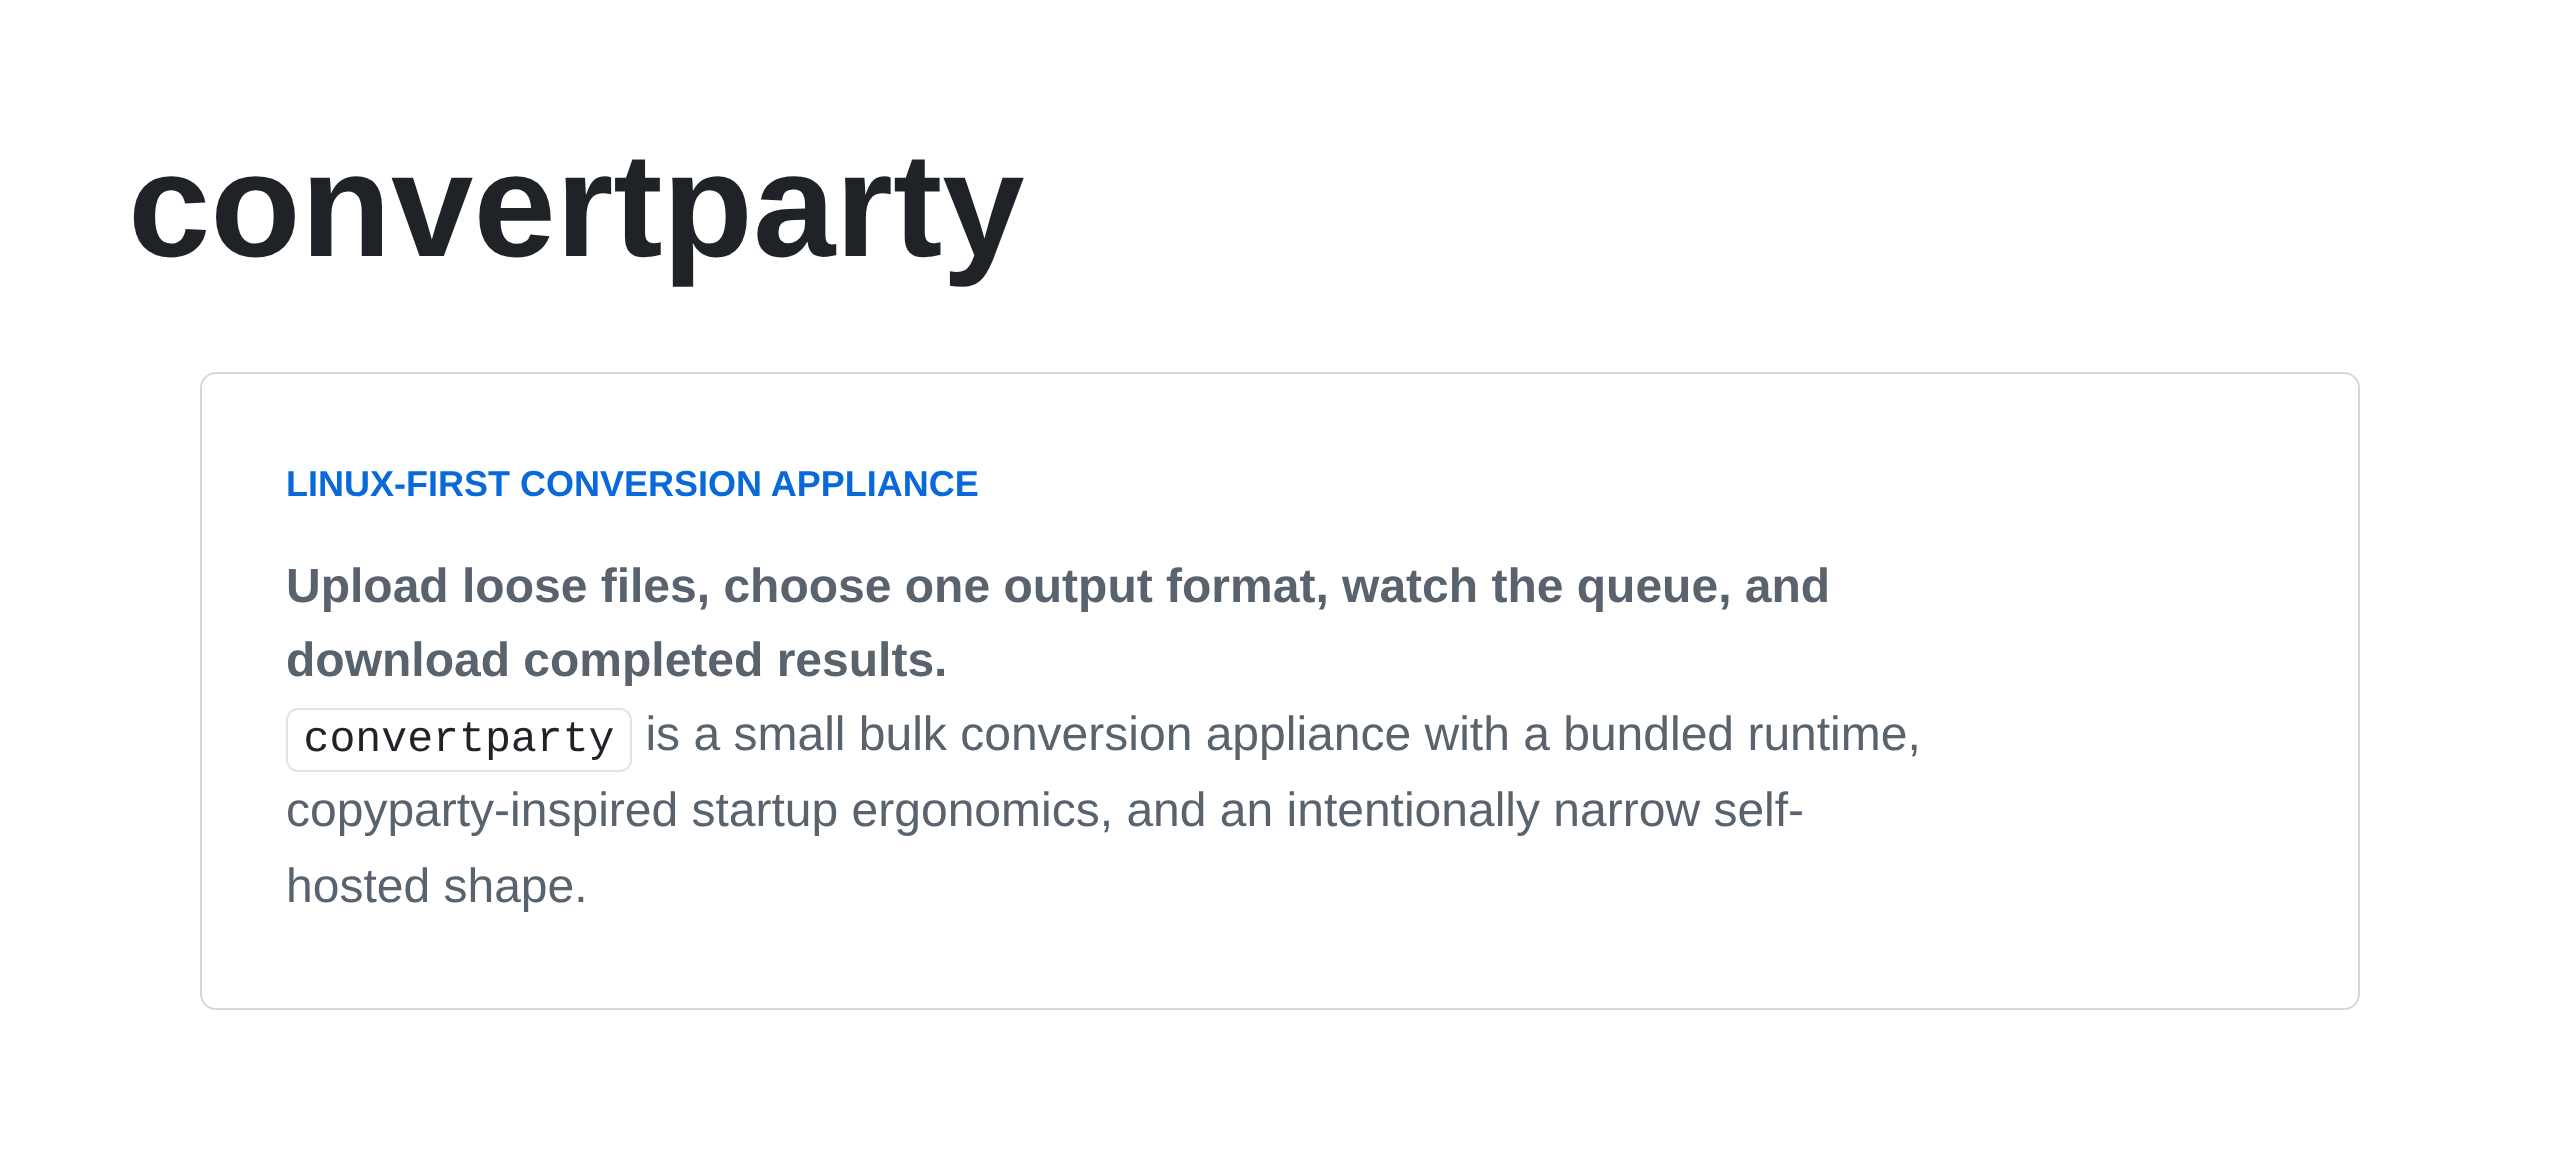
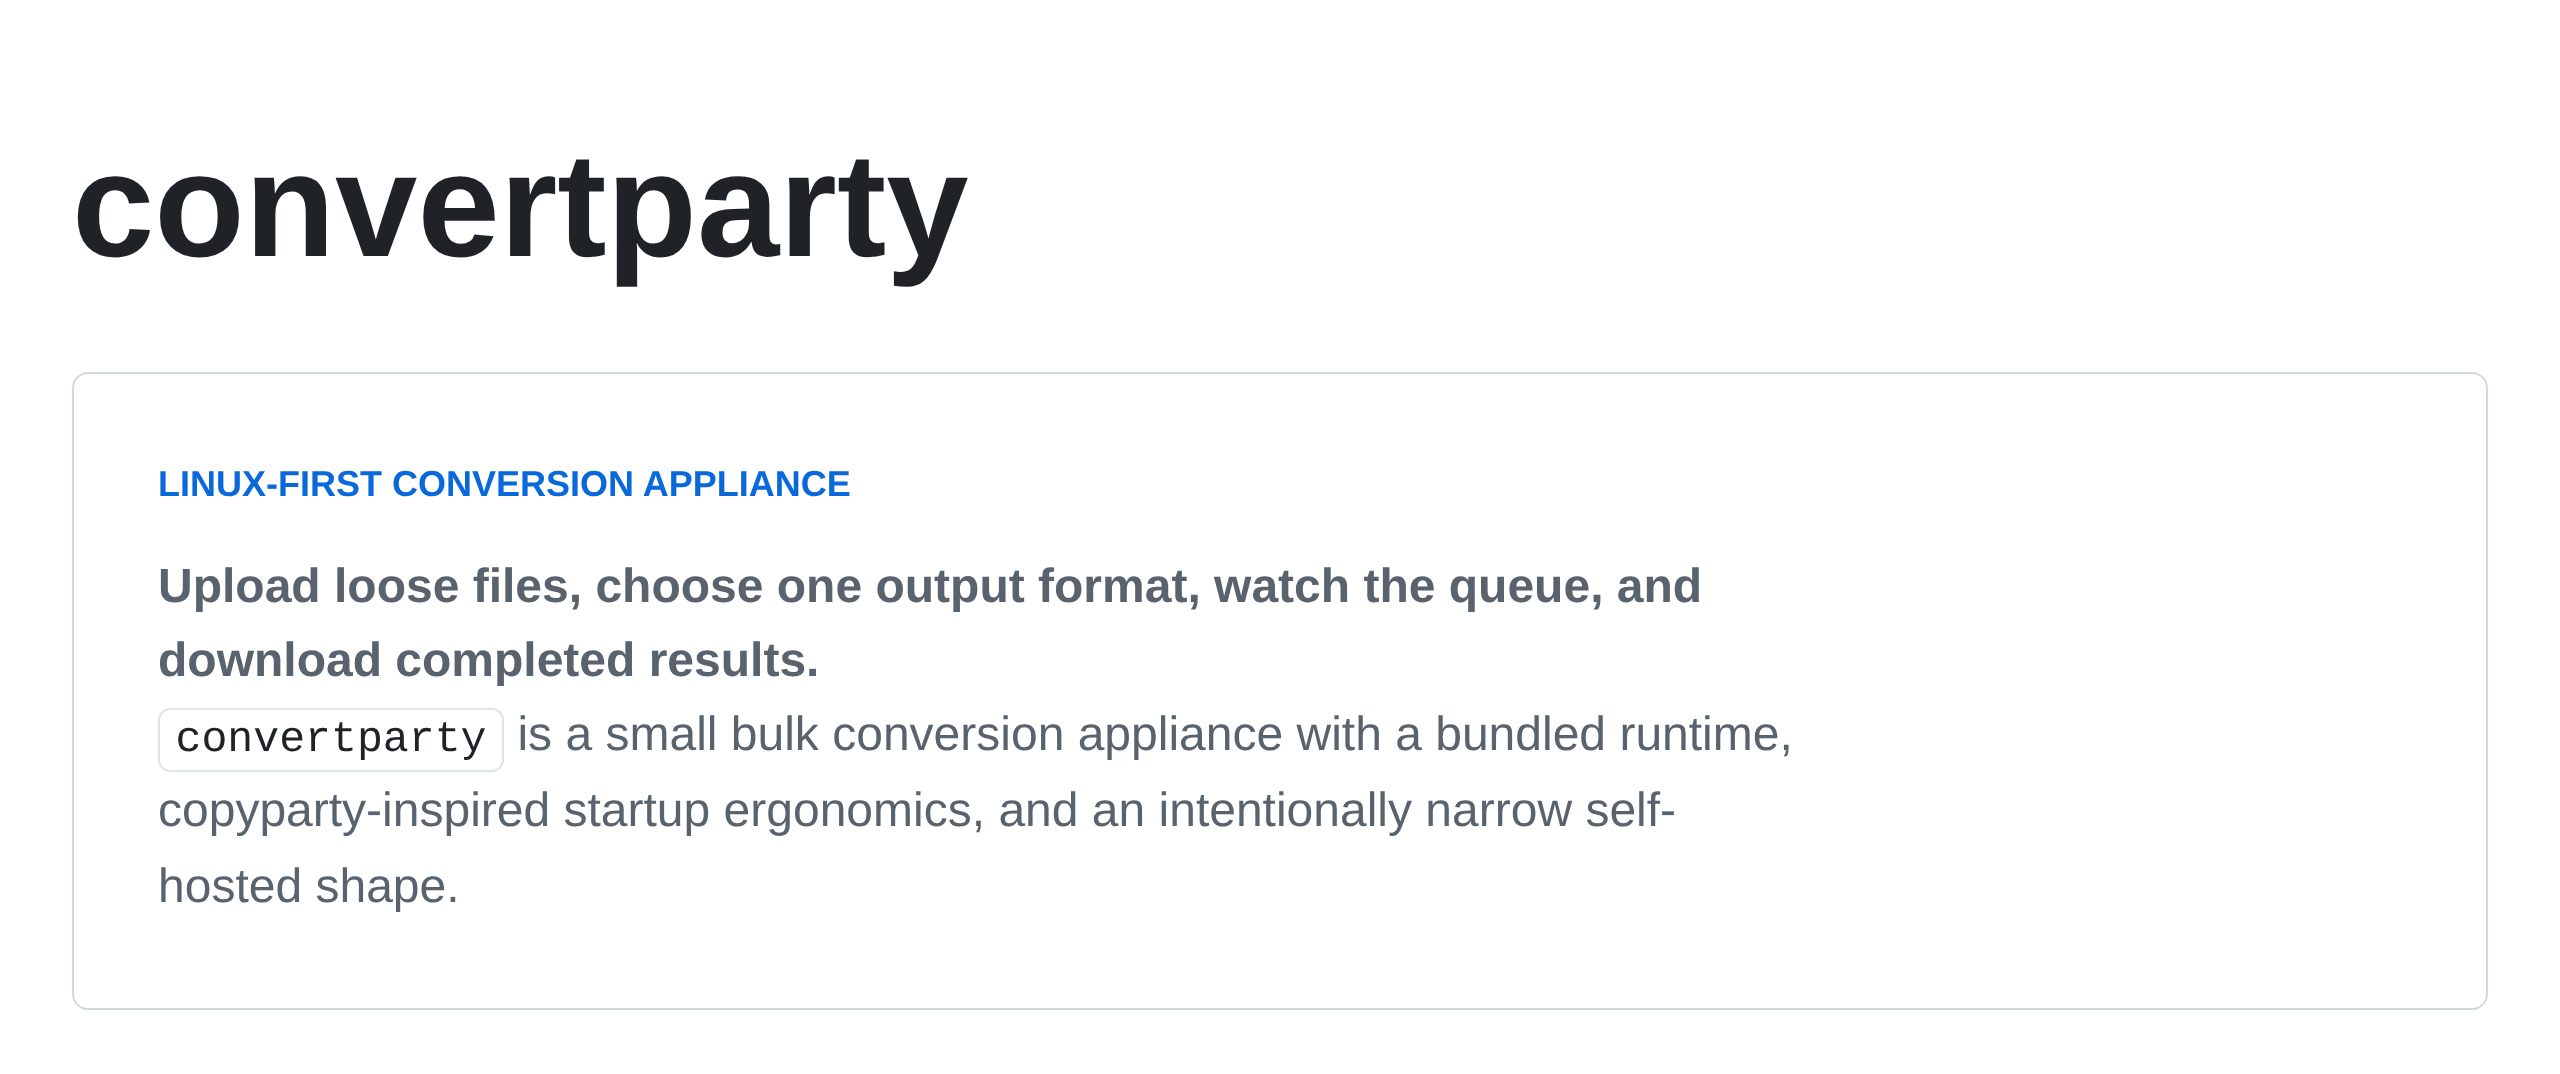
Tighten README split alignment

diff --git a/scripts/render-readme.ts b/scripts/render-readme.ts
@@ -234,21 +234,21 @@ body {
 
 .readme-canvas {
   width: 100%;
-  padding: 64px;
+  padding: 64px 36px;
   overflow: hidden;
   background: var(--bgColor-default);
 }
 
 .readme-canvas--top {
-  padding-bottom: 24px;
+  padding-bottom: 8px;
 }
 
 .readme-canvas--bottom {
-  padding-top: 12px;
+  padding-top: 0;
 }
 
 .readme-canvas--bottom .stat-strip {
-  margin-top: 24px;
+  margin-top: 18px;
 }
 
 .markdown-body {
@@ -257,7 +257,7 @@ body {
 }
 
 .markdown-body > * {
-  max-width: 1080px;
+  max-width: 1208px;
   margin-left: auto;
   margin-right: auto;
 }
@@ -272,7 +272,7 @@ body {
 
 .markdown-body h1 {
   margin: 0 0 24px;
-  max-width: 980px;
+  max-width: 1208px;
   font-size: 74px;
   font-weight: 800;
 }
@@ -333,8 +333,8 @@ body {
 }
 
 .hero {
-  max-width: 1080px;
-  margin: 44px auto 54px;
+  max-width: 1208px;
+  margin: 44px auto 24px;
   padding: 42px;
   border: 1px solid var(--borderColor-default);
   border-radius: 8px;
